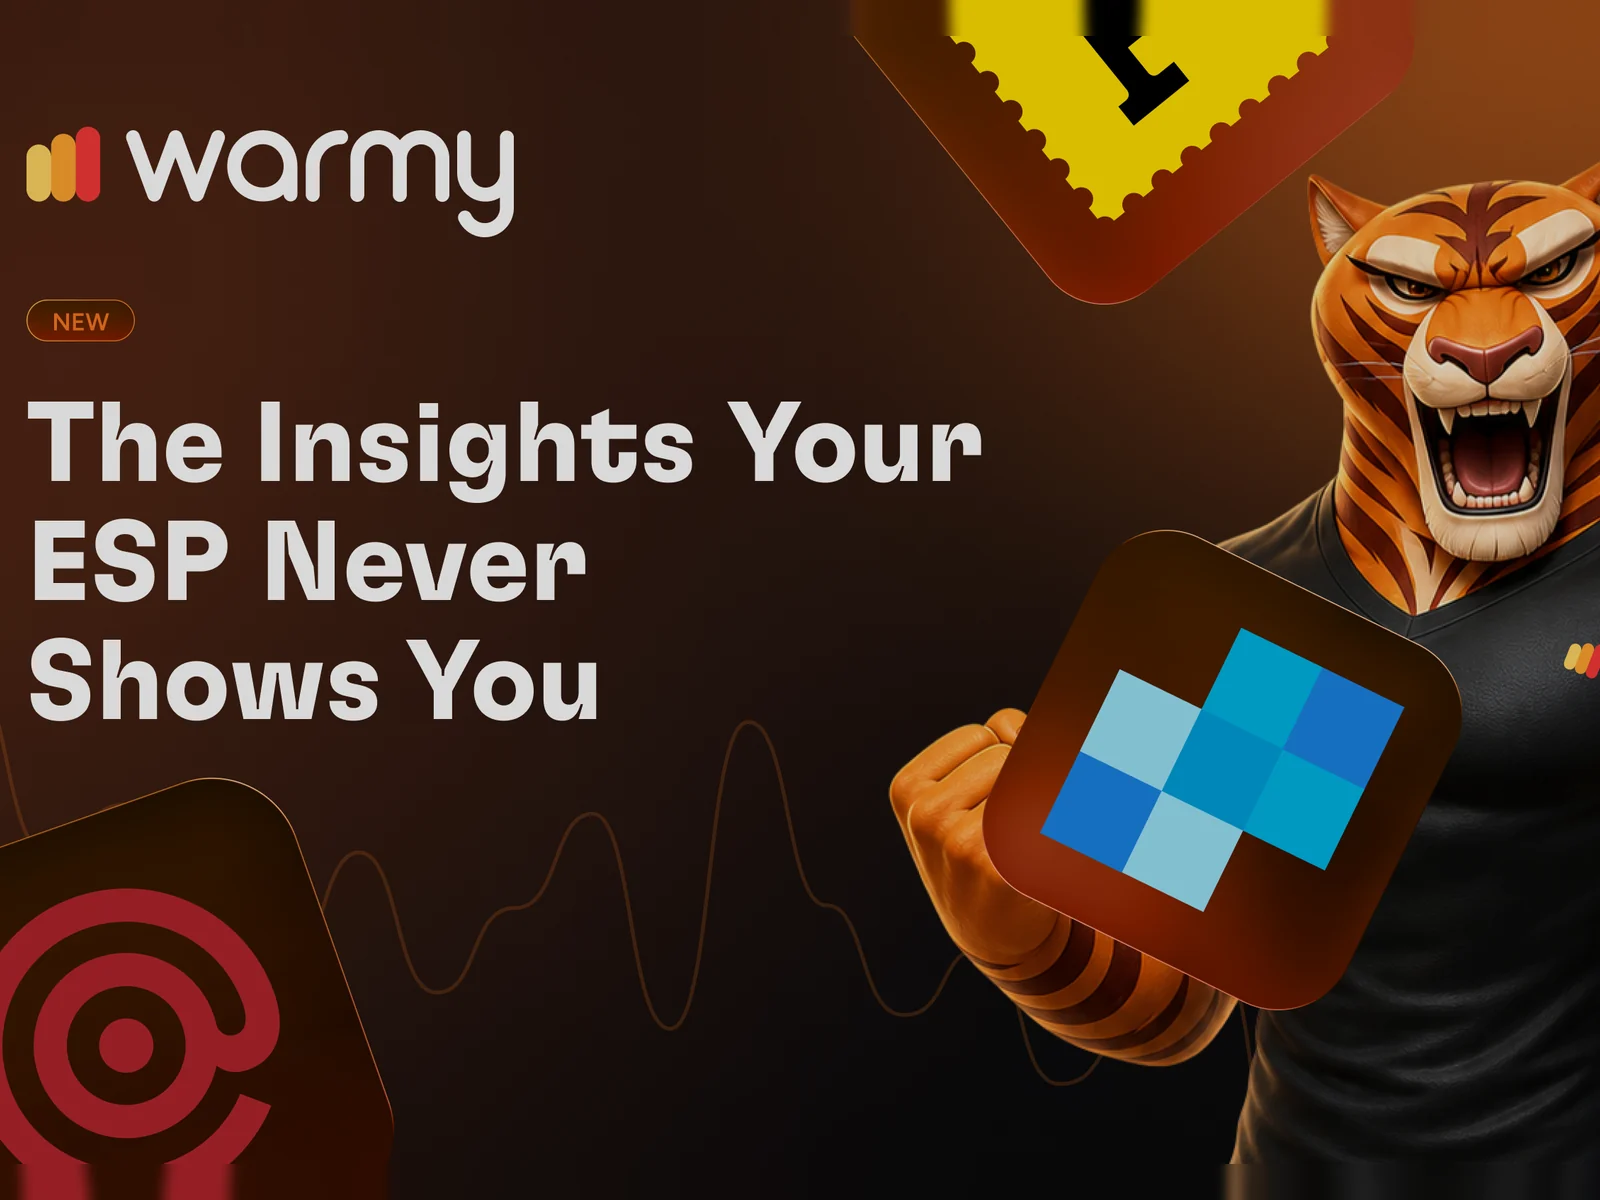
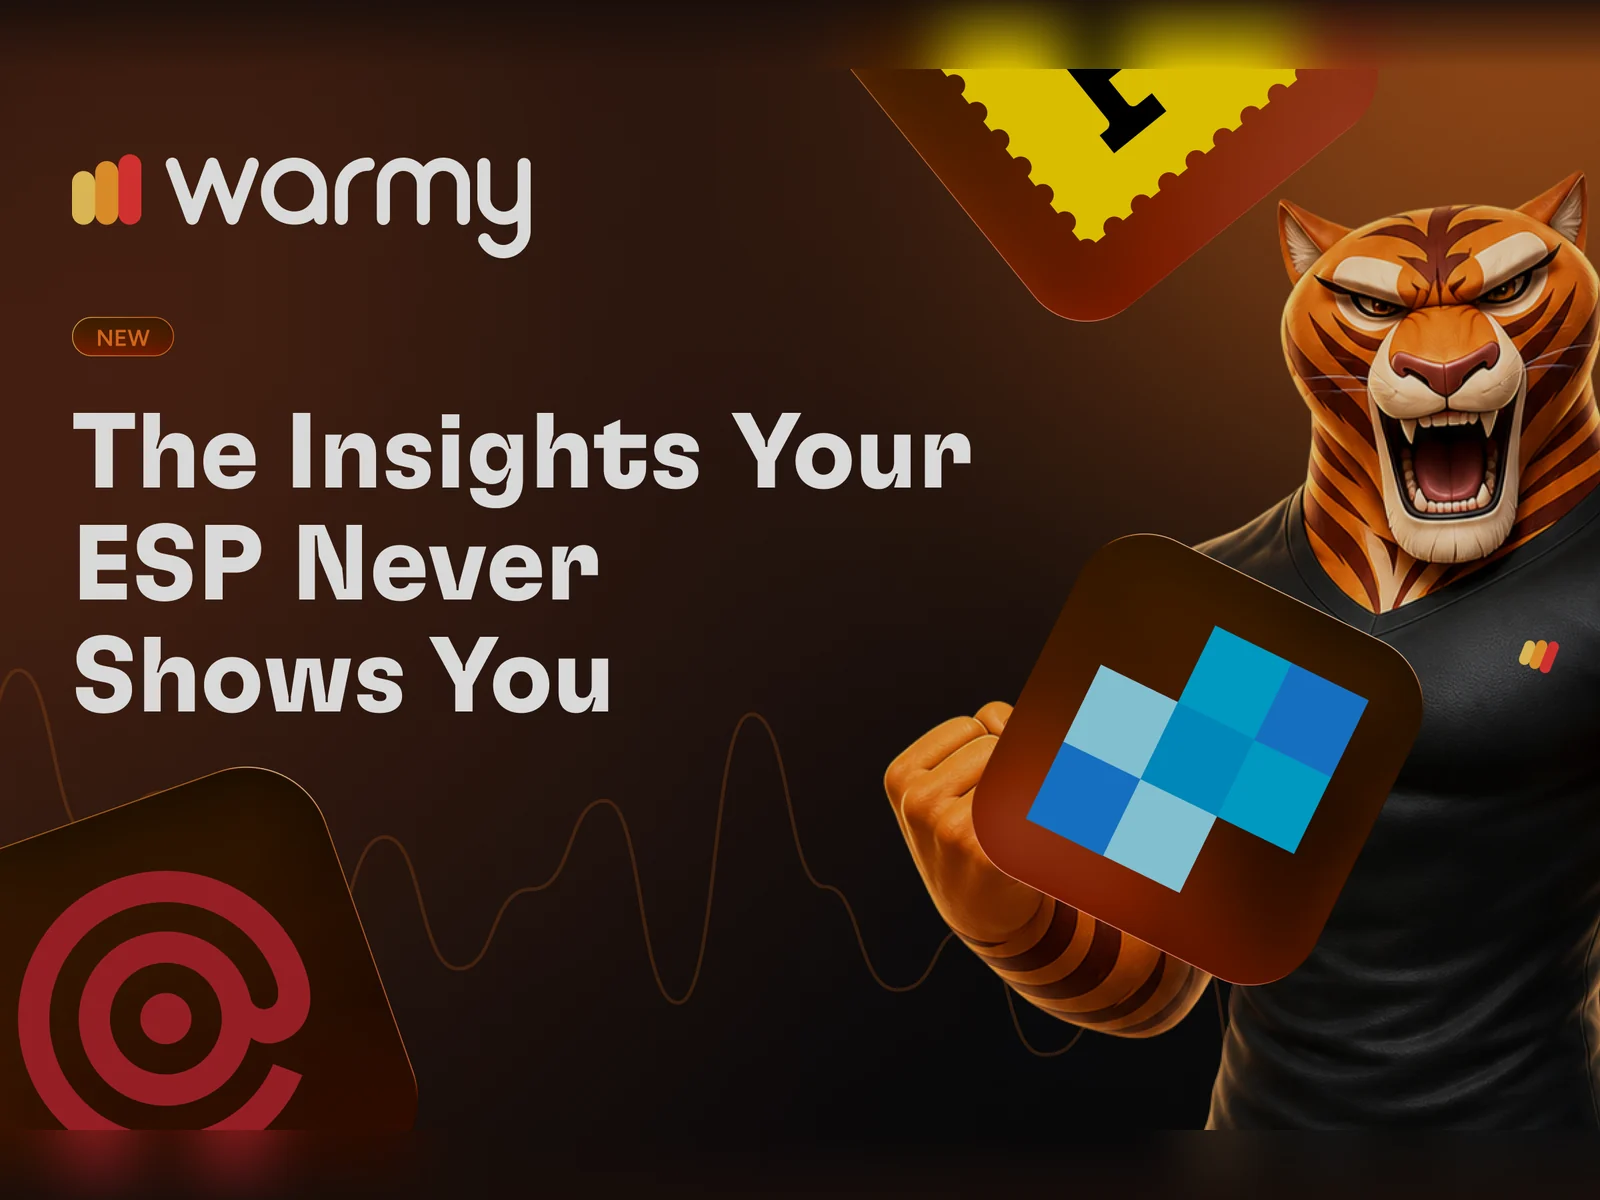
Landing: Warmy thumbnail keeps its full width and left margin

diff --git a/tools/warmy/render_thumb.py b/tools/warmy/render_thumb.py
@@ -1,21 +1,32 @@
 """The Warmy thumbnail for the landing's work list (her choice, 2026-10-20): her own Figma frame "video-player"
 (231:72628, 600 x 398, an image fill exported at 2400 x 1592 into figma/thumb-figma-fill.png, under the frame's 15%
-black overlay). The landing's card is 4:3 and the frame 3:2, so the image is fitted to a width of 1700, 50 px are
-trimmed at each side (the logo keeps its margin), and the missing 36 px at the top and the bottom are filled by
-stretching the edge rows, softened; nothing else is changed.
+black overlay). The landing's card is 4:3 and the frame 3:2. Trimming the sides cut the logo's margin or the tiger's
+face (her note), so the image keeps its full width and the 70 px missing at the top and the bottom are a soft
+continuation of its edges: the edge rows, blurred sideways and fading into the dark ground. Nothing else is changed.
 Run: python render_thumb.py -> ../../assets/work/warmy/warmy-thumb.webp (1600 x 1200) and warmy-thumb-800.webp
 """
 import os
+import numpy as np
 from PIL import Image, ImageFilter
 HERE = os.path.dirname(os.path.abspath(__file__)); OUT = os.path.join(HERE, '..', '..', 'assets', 'work', 'warmy')
 im = Image.open(os.path.join(HERE, 'figma', 'thumb-figma-fill.png')).convert('RGBA')
 im = Image.alpha_composite(im, Image.new('RGBA', im.size, (0, 0, 0, 38))).convert('RGB')   # the frame's 15% overlay
-im = im.resize((1700, round(im.height*1700/im.width)), Image.LANCZOS).crop((50, 0, 1650, 1128))
-pad = (1200-im.height)//2
+im = im.resize((1600, round(im.height*1600/im.width)), Image.LANCZOS)
+pad = (1200-im.height)//2; GROUND = np.array([24, 14, 10], float)
+
+def band(row, h, flip):
+    """h rows that continue an edge row: blurred sideways, fading towards the dark ground away from the image."""
+    strip = row.resize((1600, h)).filter(ImageFilter.GaussianBlur(28))
+    a = np.asarray(strip).astype(float)
+    t = np.linspace(0, 1, h)[:, None, None]
+    if flip: t = t[::-1]                              # t = 0 at the image edge
+    a = a*(1-t*.85)+GROUND*(t*.85)
+    return Image.fromarray(a.astype('uint8'))
+
 out = Image.new('RGB', (1600, 1200))
-top = im.crop((0, 0, 1600, 2)).resize((1600, pad+8)).filter(ImageFilter.GaussianBlur(6))
-bot = im.crop((0, im.height-2, 1600, im.height)).resize((1600, 1200-pad-im.height+8)).filter(ImageFilter.GaussianBlur(6))
-out.paste(top, (0, 0)); out.paste(bot, (0, pad+im.height-8)); out.paste(im, (0, pad))
+out.paste(band(im.crop((0, 0, 1600, 3)), pad, True), (0, 0))
+out.paste(band(im.crop((0, im.height-3, 1600, im.height)), 1200-pad-im.height, False), (0, pad+im.height))
+out.paste(im, (0, pad))
 out.save(os.path.join(OUT, 'warmy-thumb.webp'), quality=86, method=6)
 out.resize((800, 600), Image.LANCZOS).save(os.path.join(OUT, 'warmy-thumb-800.webp'), quality=84, method=6)
 print('ok', out.size)

diff --git a/site.md b/site.md
@@ -42,7 +42,7 @@ Built from [`inspiration.md`](inspiration.md) (decisions D1–D9) and [`cv.md`](
 | # | Title | Description | Role | Year | Platform | Image |
 |---|---|---|---|---|---|---|
 | 1 | AnyBiz: AI sales outreach | A B2B platform that finds prospects and reaches them by email, LinkedIn and phone, with AI sales agents, drip campaigns and CRM integration. | Product Designer | 2021 – present | Web SaaS | UI fragments: campaign sequence, channels, prospect list *(placeholder until her real screens)* |
-| 2 | Warmy: email deliverability | Warms up mailboxes and domains automatically so campaigns land in the inbox, not in spam. | UI/UX Designer | 2021 – present | Web SaaS | Thumbnail (her choice, 2026-10-20): her own Figma frame "video-player" (231:72628): "The Insights Your ESP Never Shows You", the roaring tiger and the Outlook, Gmail and @ tiles, fitted to the 4:3 card by `tools/warmy/render_thumb.py` → `assets/work/warmy/warmy-thumb.webp` (1600 × 1200) and `-800`. **Opens its own page** [`Warmy.html`](Warmy.html), content in [`warmy.md`](warmy.md) (2026-10-20). |
+| 2 | Warmy: email deliverability | Warms up mailboxes and domains automatically so campaigns land in the inbox, not in spam. | UI/UX Designer | 2021 – present | Web SaaS | Thumbnail (her choice, 2026-10-20): her own Figma frame "video-player" (231:72628): "The Insights Your ESP Never Shows You", the roaring tiger and the Outlook, Gmail and @ tiles, fitted to the 4:3 card at its full width (the 70 px missing at the top and the bottom continue its edges softly; trimming the sides cut the logo margin, her note) by `tools/warmy/render_thumb.py` → `assets/work/warmy/warmy-thumb.webp` (1600 × 1200) and `-800`. **Opens its own page** [`Warmy.html`](Warmy.html), content in [`warmy.md`](warmy.md) (2026-10-20). |
 | 3 | Sport Guardian: crowdfunding for sports clubs (Norwegian: Idretsfader; English name since 2026-10-10) | A fundraising page any sports club can open in minutes, so private people and companies can cover what keeps children out of sport. | UX, UI *(estimate, to confirm)* | 2024 (her answer, 2026-10-14) | Web | SG mark, "Speed" variant chosen by her 2026-10-13: a slanted white S and green G in the brand typeface Candal, sliced into horizontal strips, a short checkered trail on the left, SPORT GUARDIAN · GIVE SPORTS ENJOYMENT bottom left, on the brand teal `#418B91` (green `#15EDA3`, from her Figma file Scale-Development-AS, node 3007:43846). References: inspiration 2.8. Rendered by `tools/sport-guardian/render-variants.py` at 1600 × 1200 plus an 800 × 600 srcset (`assets/work/sport-guardian/`). **Opens its own page** [`SportGuardian.html`](SportGuardian.html), content in [`sportguardian.md`](sportguardian.md) (2026-10-13). |
 | 4 | Book: a family history in print | Layout and design of a 432-page family history book with more than 300 images, printed by LOS DIGITAL AS in 2024. | Book design, layout | 2023 – 2024 | Print | One hardcover lying face up, a three.js render from her cover file (since 2026-09-28, replaced the CSS stack of three copies; details in `book.md`). **Opens its own page** [`book.html`](book.html), content in [`book.md`](book.md) (2026-09-26). |
 | 5 | Styupan Translation: brand mark | Logo for Stiupan Translations ENK, an Oslo translation and copywriting company, followed by UI/UX and book work over more than a year. | Logo, UI/UX | 2023 | Brand | The logo on yellow with scattered letters, exported from her Figma file MY PROJECTS (node 853:50072, 677 × 508) at 1600 × 1200 plus an 800 × 600 srcset (`assets/work/styupan/`, 2026-09-28). **Opens its own page** [`styupan.html`](styupan.html), content in [`styupan.md`](styupan.md) (2026-09-29). |
